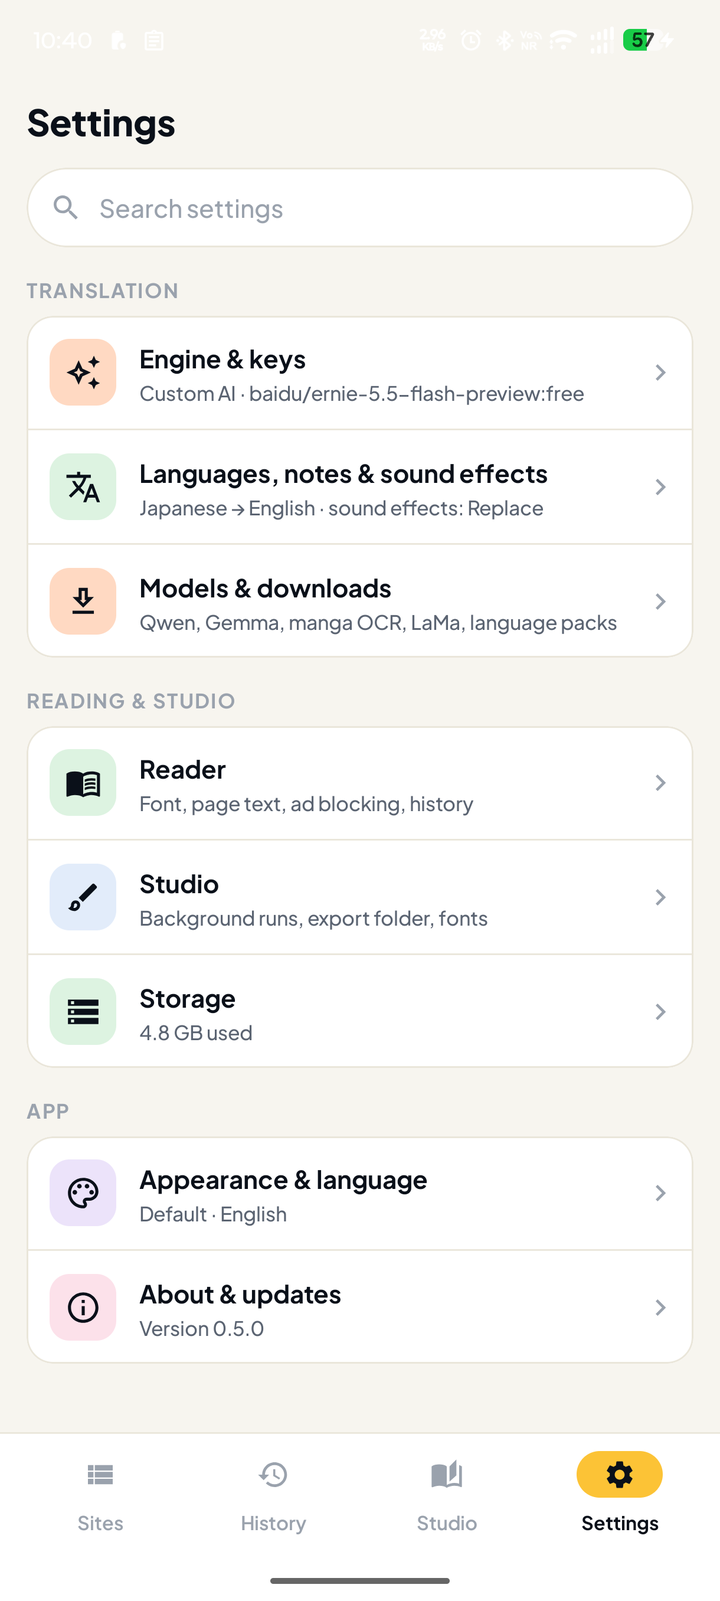
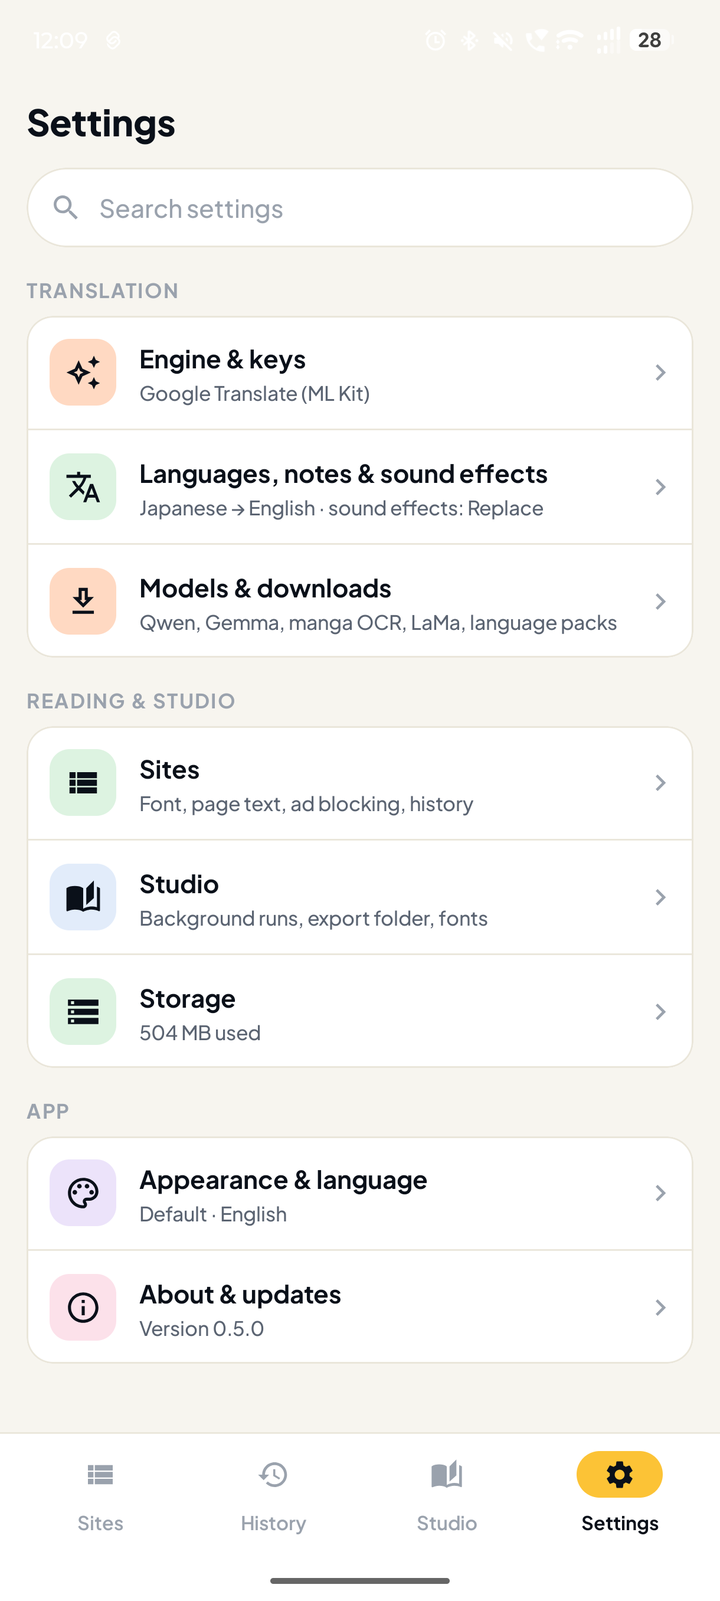
Panelglass 0.6.0

diff --git a/CHANGELOG.md b/CHANGELOG.md
@@ -7,60 +7,41 @@ workflow publishes the version's section as the GitHub Release notes.
 
 ## [Unreleased]
 
+## [0.6.0] - 2026-11-15
+
 ### Added
 
-- **Notifications are asked for at the first open** (Android 13+), so the first-start downloads and Studio runs show
-  their progress. Asked once; no storage permission is asked for or needed (the Studio uses the system pickers).
-- A finished download the system saved under another name (`model-1.part`) is now found and kept; leftover
-  numbered copies are deleted.
-- **First-open setup.** After the notification question, the app lists what it still needs (manga-ocr ~140 MB, LaMa
-  ~208 MB on phones with 4 GB of RAM or more, the Japanese, Korean and Chinese language packs) with the total size,
-  and asks Wi-Fi only (the default) or Wi-Fi or mobile data. Nothing downloads before that answer; Later asks again at
-  the next open. A model you delete afterwards is not downloaded again.
-- **Download over Wi-Fi only** (Settings › Models & downloads, on by default): every model and language-pack download
-  waits for Wi-Fi unless it is turned off. Changing it applies to downloads already waiting too: those that have
-  received nothing are queued again under the new choice, ML Kit's language packs included. A model row says
-  "waiting for Wi-Fi" while it is held back.
-- **Default export folder.** Settings › Studio › Default folder can now be changed: Downloads (`Download/Panelglass`)
-  or any folder you pick. Every manga without a folder of its own exports there; the export screen's folder choice
-  offers "Default: <folder>" beside picking one for the manga.
-- **Custom AI providers.** The Custom AI key sheet offers DeepSeek, Grok, GPT, Claude and OpenRouter by name:
-  picking one fills in its address (locked), and **Custom** takes any other. Settings › Engine & keys shows the
-  provider with the model ("DeepSeek · deepseek-chat"). Nothing new is stored: the provider is read from the saved
-  address.
-- **Custom AI**, a translation engine for your own OpenAI-compatible server. Name its address and the model in
-  Settings and paste your key: the app sends a plain text Chat Completions request to `<your address>/chat/completions`
-  and reads the text on the device, so no image ever leaves the phone. The address must be HTTPS; a pasted
-  `…/chat/completions` address is accepted and no `/v1` is added for you. Replies from home servers are read
-  tolerantly (a bare object, a fenced or wrapped array, text parts), a malformed reply is retried in one self-contained
-  request that asks only for the bubbles the reply missed or garbled (the good ones are kept, so a bad reply never
-  costs the whole page twice), and the key sheet warns when the model name gives away a model of about a billion parameters or less
-  (saving is still allowed).
-- **Privacy policy and licences in the app**: Settings › About & updates › Privacy and Licences open the
-  [privacy policy](PRIVACY.md) and the [licences](LICENSES.md) that shipped with your version, readable offline, with
-  a link to the same page on GitHub. The policy now also says what Google's ML Kit libraries report to Google
-  (diagnostics such as the device model and app version; never your text or pages).
+- **Notifications are asked for at the first open** (Android 13+), so the first-start downloads and Studio runs show their progress. Asked once; no storage permission is asked for or needed (the Studio uses the system pickers).
+- A finished download the system saved under another name (`model-1.part`) is now found and kept; leftover numbered copies are deleted.
+- **First-open setup.** After the notification question, the app lists what it still needs (manga-ocr ~140 MB, LaMa ~208 MB on phones with 4 GB of RAM or more, the Japanese, Korean and Chinese language packs) with the total size, and asks Wi-Fi only (the default) or Wi-Fi or mobile data. Nothing downloads before that answer; Later asks again at the next open. A model you delete afterwards is not downloaded again.
+- **Download over Wi-Fi only** (Settings › Models & downloads, on by default): every model and language-pack download waits for Wi-Fi unless it is turned off. Changing it applies to downloads already waiting too: those that have received nothing are queued again under the new choice, ML Kit's language packs included. A model row says "waiting for Wi-Fi" while it is held back.
+- **Default export folder.** Settings › Studio › Default folder can now be changed: Downloads (`Download/Panelglass`) or any folder you pick. Every manga without a folder of its own exports there; the export screen's folder choice offers "Default: <folder>" beside picking one for the manga.
+- **Custom AI providers.** The Custom AI key sheet offers DeepSeek, Grok, GPT, Claude and OpenRouter by name: picking one fills in its address (locked), and **Custom** takes any other. Settings › Engine & keys shows the provider with the model ("DeepSeek · deepseek-chat"). Nothing new is stored: the provider is read from the saved address.
+- **Custom AI**, a translation engine for your own OpenAI-compatible server. Name its address and the model in Settings and paste your key: the app sends a plain text Chat Completions request to `<your address>/chat/completions` and reads the text on the device, so no image ever leaves the phone. The address must be HTTPS; a pasted `…/chat/completions` address is accepted and no `/v1` is added for you. Replies from home servers are read tolerantly (a bare object, a fenced or wrapped array, text parts), a malformed reply is retried in one self-contained request that asks only for the bubbles the reply missed or garbled (the good ones are kept, so a bad reply never costs the whole page twice), and the key sheet warns when the model name gives away a model of about a billion parameters or less (saving is still allowed).
+- **Privacy policy and licences in the app**: Settings › About & updates › Privacy and Licences open the [privacy policy](PRIVACY.md) and the [licences](LICENSES.md) that shipped with your version, readable offline, with a link to the same page on GitHub. The policy now also says what Google's ML Kit libraries report to Google (diagnostics such as the device model and app version; never your text or pages).
 
 ### Changed
 
-- **Settings, redesigned**: one long page became a hub with search and eight pages: Engine & keys, Languages, notes &
-  sound effects, Models & downloads, Reader, Studio, Storage, Appearance & language, About & updates. Each hub row says
-  what its page holds now; on a tablet or a wide window the page opens beside the hub.
-  - **Engine & keys** lists every engine as a choice, the free ones on the phone first; the chosen cloud engine shows
-    its model (and Custom AI its address), and the Try box sits next to it.
-  - **Languages**: a button swaps From and To, recent language pairs are one tap away, translation notes are edited in
-    place with Reset to default, and the glossary count is shown.
-  - **Storage** shows what Panelglass takes and what is free; **Reader** can clear the translated pages cache, update
-    the block lists now, and set the language Translate page uses.
+- **Settings, redesigned**: one long page became a hub with search and eight pages: Engine & keys, Languages, notes & sound effects, Models & downloads, Sites, Studio, Storage, Appearance & language, About & updates. Each hub row says what its page holds now; on a tablet or a wide window the page opens beside the hub.
+  - **Engine & keys** lists every engine as a choice, the free ones on the phone first; the chosen cloud engine shows its model (and Custom AI its address), and the Try box sits next to it.
+  - **Languages**: a button swaps From and To, recent language pairs are one tap away, translation notes are edited in place with Reset to default, and the glossary count is shown.
+  - **Storage** shows what Panelglass takes and what is free; **Sites** can clear the translated pages cache, update the block lists now, and set the language Translate page uses.
   - **About** links to the release notes, the source code, a new issue, the licences and the privacy notes.
+- The Settings page for the reader is now called **Sites**, and the Sites and Studio rows use the same icons as the bottom tabs.
+
+### Fixed
+
+- Pressing **Update** on the block lists while they were already updating said "Update failed"; it now waits for that update and shows its result.
+- The storage bar on Models & downloads now follows a model being downloaded or deleted, instead of keeping the old total.
+- Picking From and then To in quick succession no longer undoes one of the two, and no longer adds the in-between pair to the recent pairs.
+- When the default export folder is gone (its permission taken back, its SD card removed), the export screen offers `Download/Panelglass` for that manga instead of only the missing folder.
+- Switches in the Paper & Ink theme have a white knob, so the dark track no longer hides them.
 
 ### Security
 
 - Model downloads refuse cleartext addresses, and the update client refuses cleartext requests and redirects.
-- Translation engines no longer follow redirects (a redirect would re-send the page text, and for Gemini the key, to
-  another host), refuse plain HTTP on every hop, and stop reading a reply past 4 MB.
-- Changing the Custom AI address to another server while keeping the saved key now asks first: keep the key for the
-  new server, or enter a new one.
+- Translation engines no longer follow redirects (a redirect would re-send the page text, and for Gemini the key, to another host), refuse plain HTTP on every hop, and stop reading a reply past 4 MB.
+- Changing the Custom AI address to another server while keeping the saved key now asks first: keep the key for the new server, or enter a new one.
 
 ## [0.5.0] - 2026-11-08
 
